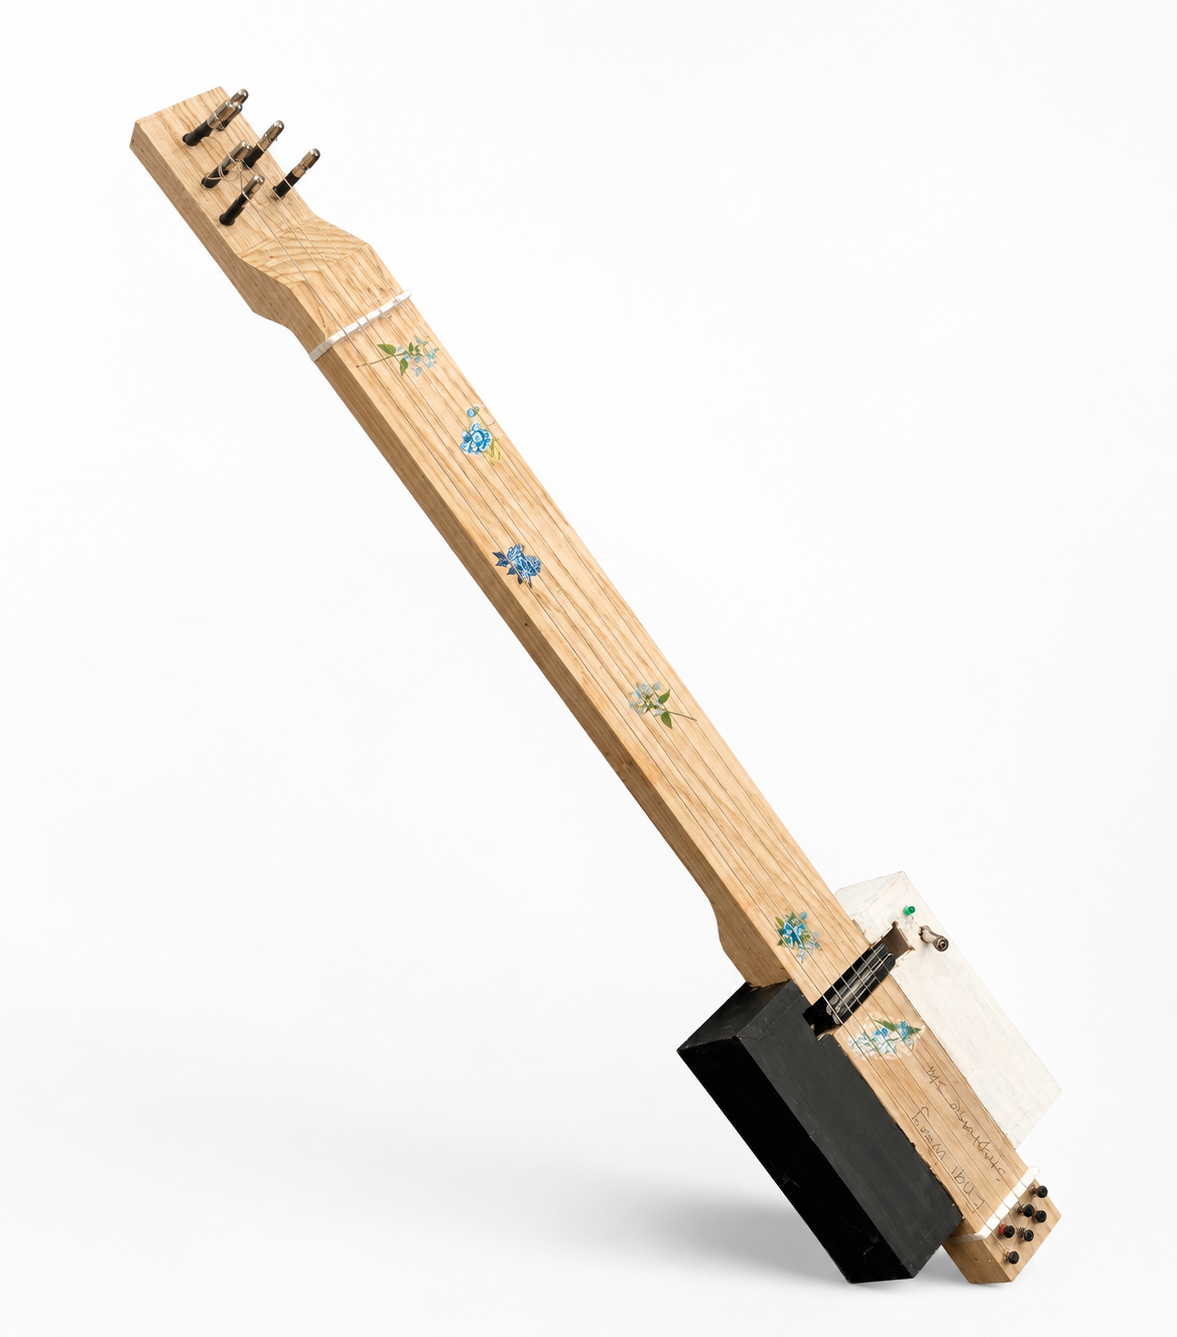
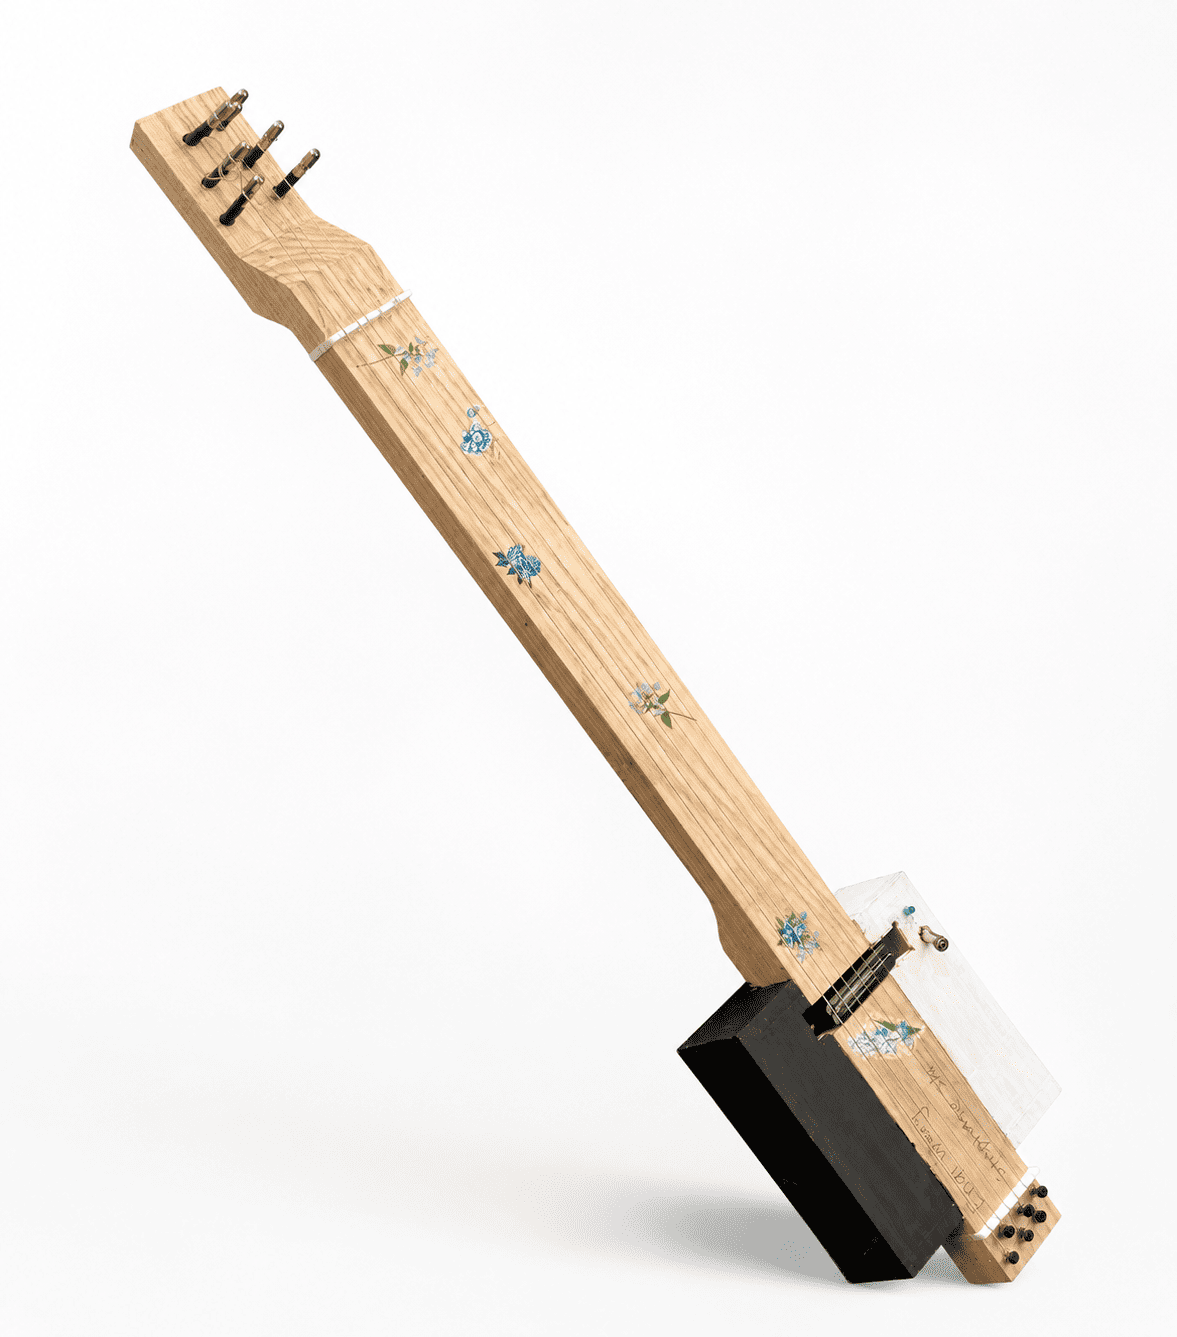
Updating UI

diff --git a/css/bom.css b/css/bom.css
@@ -1,0 +1,298 @@
+
+/*start of BOM .xlsx preview */
+.bom-intro {
+  text-align: center;
+  max-width: 860px;
+  margin: 0 auto 22px;
+  color: var(--muted);
+  line-height: 1.85;
+  font-size: 1rem;
+}
+
+.bom-stats {
+  max-width: 860px;
+  margin: 0 auto 20px;
+  display: grid;
+  grid-template-columns: repeat(4, minmax(0, 1fr));
+  gap: 14px;
+}
+
+.stat {
+  background: rgba(255, 255, 255, 0.84);
+  border: 1px solid rgba(214, 107, 232, 0.12);
+  box-shadow: var(--shadow);
+  border-radius: 18px;
+  padding: 16px 14px;
+  text-align: center;
+}
+
+.stat span {
+  display: block;
+  font-size: 1.28rem;
+  font-weight: 900;
+  color: var(--pink-strong);
+  letter-spacing: -0.03em;
+  margin-bottom: 6px;
+}
+
+.stat p {
+  color: var(--muted);
+  font-size: 0.9rem;
+  font-weight: 600;
+  line-height: 1.35;
+}
+
+.bom-table-wrap {
+  max-width: 900px;
+  margin: 0 auto;
+  overflow-x: auto;
+  background: rgba(255, 255, 255, 0.82);
+  border: 1px solid rgba(214, 107, 232, 0.12);
+  box-shadow: var(--shadow);
+  border-radius: 20px;
+}
+
+.bom-table {
+  width: 100%;
+  border-collapse: collapse;
+  min-width: 820px;
+  font-size: 0.92rem;
+}
+
+.bom-table thead th {
+  background: rgba(255, 111, 174, 0.12);
+  color: var(--pink-strong);
+  font-weight: 800;
+  text-transform: uppercase;
+  letter-spacing: 0.05em;
+  font-size: 0.8rem;
+}
+
+.bom-table th,
+.bom-table td {
+  padding: 11px 12px;
+  text-align: left;
+  border-bottom: 1px solid var(--line);
+  vertical-align: top;
+}
+
+.bom-table tbody tr:hover {
+  background: rgba(255, 111, 174, 0.03);
+}
+
+.bom-table td.cost {
+  text-align: right;
+  white-space: nowrap;
+  font-variant-numeric: tabular-nums;
+}
+
+.bom-table td.level {
+  white-space: nowrap;
+  width: 70px;
+  color: rgba(255, 255, 255, 0.78);
+}
+
+.bom-table td.partnum {
+  white-space: nowrap;
+  width: 120px;
+  color: #fff;
+  font-weight: 700;
+}
+
+.bom-table td.vendor {
+  white-space: nowrap;
+  color: rgba(255, 255, 255, 0.82);
+}
+
+
+.sheet-frame {
+  max-width: 900px;
+  margin: 0 auto;
+  background: #ffffff;
+  color: #202020;
+  border-radius: 12px;
+  border: 1px solid #d7d7d7;
+  box-shadow: 0 10px 24px rgba(0, 0, 0, 0.06);
+  overflow: hidden;
+  font-family: Arial, Helvetica, sans-serif;
+}
+
+.sheet-topbar {
+  display: flex;
+  align-items: center;
+  justify-content: space-between;
+  gap: 16px;
+  padding: 8px 12px;
+  background: linear-gradient(180deg, #ffffff, #f4f4f4);
+  border-bottom: 1px solid #d9d9d9;
+}
+
+.sheet-topbar strong {
+  display: block;
+  font-size: 0.95rem;
+  color: #444;
+  font-weight: 700;
+}
+
+.sheet-topbar span {
+  display: block;
+  font-size: 0.78rem;
+  color: #777;
+  margin-top: 2px;
+}
+
+.sheet-pill {
+  background: #f8f8f8;
+  color: #666;
+  border: 1px solid #d2d2d2;
+  border-radius: 999px;
+  padding: 6px 10px;
+  font-size: 0.72rem;
+  font-weight: 700;
+  white-space: nowrap;
+}
+
+.sheet-scroll {
+  overflow-x: auto;
+  background: #ffffff;
+}
+
+.sheet-table {
+  width: 100%;
+  min-width: 1110px;
+  border-collapse: collapse;
+  font-size: 0.72rem;
+  line-height: 1.15;
+}
+
+.sheet-table thead th,
+.sheet-table tbody th,
+.sheet-table td {
+  border: 1px solid #e0e0e0;
+  padding: 6px 8px;
+  text-align: left;
+  vertical-align: top;
+  background: #ffffff;
+  color: #222;
+}
+
+.sheet-table thead th {
+  background: #f3f3f3;
+  color: #5f5f5f;
+  font-size: 0.73rem;
+  font-weight: 700;
+  text-transform: uppercase;
+  letter-spacing: 0.05em;
+  text-align: center;
+  position: sticky;
+  top: 0;
+  z-index: 1;
+  white-space: nowrap;
+}
+
+.sheet-table thead .sheet-corner {
+  background: #ededed;
+  width: 42px;
+}
+
+.sheet-table tbody th {
+  background: #f7f7f7;
+  width: 42px;
+  text-align: center;
+  color: #666;
+  font-weight: 700;
+  white-space: nowrap;
+}
+
+.sheet-table td:nth-child(2) {
+  min-width: 72px;
+}
+
+/* Level */
+.sheet-table td:nth-child(3) {
+  min-width: 92px;
+}
+
+/* Part # */
+.sheet-table td:nth-child(4) {
+  min-width: 220px;
+}
+
+/* Part Name */
+.sheet-table td:nth-child(5) {
+  min-width: 360px;
+}
+
+/* Description */
+.sheet-table td:nth-child(6) {
+  min-width: 82px;
+}
+
+/* Material */
+.sheet-table td:nth-child(7) {
+  min-width: 92px;
+}
+
+/* Cost */
+.sheet-table td:nth-child(8) {
+  min-width: 140px;
+}
+
+/* Vendor */
+
+.sheet-table td:nth-child(7) {
+  white-space: nowrap;
+  font-variant-numeric: tabular-nums;
+  text-align: right;
+}
+
+.sheet-table td:nth-child(4),
+.sheet-table td:nth-child(5),
+.sheet-table td:nth-child(8) {
+  white-space: normal;
+  word-break: break-word;
+}
+
+.sheet-header-row td {
+  background: #eaf4e2;
+  font-weight: 700;
+  color: #365b2e;
+  white-space: nowrap;
+}
+
+.sheet-total-row td,
+.sheet-total-row th {
+  background: #fff7df;
+}
+
+.sheet-total-row td strong {
+  color: #7a4c06;
+}
+
+.bom-actions {
+  max-width: 900px;
+  margin: 18px auto 0;
+  display: flex;
+  justify-content: center;
+  gap: 14px;
+  flex-wrap: wrap;
+}
+
+.download-btn {
+  display: inline-flex;
+  align-items: center;
+  justify-content: center;
+  padding: 13px 20px;
+  border: 1px solid var(--pink-strong);
+  color: var(--pink-strong);
+  font-weight: 800;
+  letter-spacing: 0.03em;
+  border-radius: 999px;
+  transition: 0.2s ease;
+  background: rgba(255, 111, 174, 0.06);
+}
+
+.download-btn:hover {
+  background: var(--pink-strong);
+  color: white;
+}

diff --git a/imageZoomIn.js b/imageZoomIn.js
@@ -1,0 +1,34 @@
+document.addEventListener("DOMContentLoaded", () => {
+
+    const lightbox = document.getElementById("lightbox");
+    const lightboxImg = document.getElementById("lightbox-image");
+
+    // Select every image except icons/logos if desired
+    const images = document.querySelectorAll("img");
+
+    images.forEach(img => {
+
+        img.style.cursor = "zoom-in";
+
+        img.addEventListener("click", () => {
+            lightboxImg.src = img.src;
+            lightbox.classList.add("active");
+        });
+
+        img.addEventListener("contextmenu", e => e.preventDefault());
+        img.addEventListener("dragstart", e => e.preventDefault());
+    });
+
+    lightbox.addEventListener("click", () => {
+        lightbox.classList.remove("active");
+    });
+
+    lightboxImg.addEventListener("contextmenu", e => e.preventDefault());
+    lightboxImg.addEventListener("dragstart", e => e.preventDefault());
+
+    document.addEventListener("keydown", e => {
+        if (e.key === "Escape") {
+            lightbox.classList.remove("active");
+        }
+    });
+});

diff --git a/controller.html b/controller.html
@@ -6,6 +6,7 @@
   <meta name="viewport" content="width=device-width, initial-scale=1.0" />
   <title>Snakeboy Customized Controller | Enqi Wang</title>
   <link rel="stylesheet" href="css/project.css">
+  <link rel="stylesheet" href="css/bom.css">
 </head>
 
 <body>
@@ -34,6 +35,7 @@
         interact with the game through
         <strong>motion tracking</strong>, <strong>voice input</strong>, and <strong>tactile controls</strong>. This
         project is designed by me and Magen Mozeh.
+
       </p>
       <div class="hero-media">
         <div class="video-container">

diff --git a/css/project.css b/css/project.css
@@ -844,3 +844,25 @@ main {
       text-transform: uppercase;
       width: fit-content;
     }
+
+
+    #imageZoomIn {
+    position: fixed;
+    inset: 0;
+    display: none;
+    justify-content: center;
+    align-items: center;
+    background: rgba(0,0,0,.9);
+    z-index: 99999;
+    cursor: zoom-out;
+}
+
+#imageZoomIn.active {
+    display: flex;
+}
+
+#imageZoomIn img {
+    max-width: 90vw;
+    max-height: 90vh;
+    object-fit: contain;
+}
